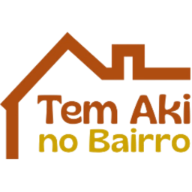
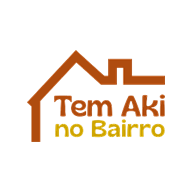
Atualiza identidade visual da marca

Changed region(s): [[0.0, 0.1562, 1.0, 0.8438]]

diff --git a/src/App.tsx b/src/App.tsx
@@ -26,7 +26,7 @@ import { OwnerDashboard } from "./pages/OwnerDashboard";
 import { AuthProvider } from "./contexts/AuthContext";
 import { PrivateRoute } from "./components/PrivateRoute";
 import { Card } from "./components/ui/Card";
-import logo from "./assets/logo.jpg";
+import logo from "./assets/logo-transparent.png";
 import { appMeta } from "./config/appMeta";
 
 function ScrollToTop() {
@@ -149,11 +149,7 @@ function UserAppLayout() {
       <header className="fixed inset-x-0 top-0 z-[60] border-b border-border-default bg-surface-card/95 shadow-sm backdrop-blur">
         <div className="container mx-auto flex h-16 items-center justify-between px-space-4">
           <Link to="/app" className="flex min-w-0 items-center gap-space-3">
-            <img src={logo} alt="Tem Aki no Bairro" className="h-10 w-10 rounded-radius-lg border border-border-subtle object-cover bg-surface-card" />
-            <div className="leading-tight">
-              <div className="text-text-base font-bold text-text-primary">{appMeta.name}</div>
-              <div className="text-text-xs text-text-muted">Busca local no Nova Terra</div>
-            </div>
+            <img src={logo} alt="Tem Aki no Bairro" className="h-10 w-auto max-w-[180px] object-contain" />
           </Link>
           <button
             type="button"
@@ -180,10 +176,10 @@ function UserAppLayout() {
           <aside className="absolute right-0 top-0 h-full w-[88%] max-w-sm overflow-y-auto border-l border-border-subtle bg-surface-card p-space-5 shadow-2xl">
             <div className="flex items-center justify-between gap-space-3">
               <div className="flex items-center gap-space-3">
-                <img src={logo} alt="Tem Aki no Bairro" className="h-11 w-11 rounded-radius-lg border border-border-subtle object-cover bg-surface-card" />
+                <img src={logo} alt="Tem Aki no Bairro" className="h-11 w-auto max-w-[170px] object-contain" />
                 <div>
-                  <div className="text-text-lg font-bold text-text-primary">{appMeta.name}</div>
-                  <div className="text-text-xs text-text-muted">Menu</div>
+                  <div className="text-text-sm font-bold text-text-primary">Menu do aplicativo</div>
+                  <div className="text-text-xs text-text-muted">Nova Terra</div>
                 </div>
               </div>
               <button

diff --git a/src/layouts/AdminLayout.tsx b/src/layouts/AdminLayout.tsx
@@ -3,6 +3,7 @@ import { LayoutDashboard, Store, Grid, MessageSquare, LogOut, Menu, X, ListTree 
 import { useState } from "react";
 import { Button } from "../components/ui/Button";
 import { useAuth } from "../contexts/AuthContext";
+import logo from "../assets/logo-transparent.png";
 
 export function AdminLayout() {
     const { pathname } = useLocation();
@@ -28,8 +29,11 @@ export function AdminLayout() {
 
             <aside className={`fixed md:static inset-y-0 left-0 z-50 w-64 bg-surface-card border-r border-border-subtle shadow-card transform ${isMobileMenuOpen ? "translate-x-0" : "-translate-x-full"} md:translate-x-0 transition-transform duration-300 ease-in-out`}>
                 <div className="h-full flex flex-col">
-                    <div className="p-space-6 border-b border-border-subtle flex justify-between items-center">
-                        <Link to="/" className="text-text-lg font-bold text-action-primary">Tem Aki Admin</Link>
+                    <div className="p-space-6 border-b border-border-subtle flex justify-between items-center gap-space-3">
+                        <Link to="/" className="min-w-0">
+                            <img src={logo} alt="Tem Aki no Bairro" className="h-10 w-auto max-w-[170px] object-contain" />
+                            <div className="mt-space-2 text-text-xs font-semibold uppercase tracking-wide text-action-primary">Painel Admin</div>
+                        </Link>
                         <button onClick={toggleMenu} className="md:hidden text-text-muted">
                             <X className="h-6 w-6" />
                         </button>
@@ -80,7 +84,7 @@ export function AdminLayout() {
                     <button onClick={toggleMenu} className="text-text-muted">
                         <Menu className="h-6 w-6" />
                     </button>
-                    <span className="font-semibold text-text-primary">Painel Administrativo</span>
+                    <img src={logo} alt="Tem Aki no Bairro" className="h-8 w-auto max-w-[140px] object-contain" />
                 </header>
 
                 <div className="flex-1 overflow-auto p-4 md:p-8">

diff --git a/src/components/layout/Header.tsx b/src/components/layout/Header.tsx
@@ -3,7 +3,7 @@ import { Menu, X, User as UserIcon, LogOut, Heart, LayoutDashboard } from "lucid
 import { Link, useNavigate } from "react-router-dom";
 import { useState, useRef, useEffect } from "react";
 import { useAuth } from "../../contexts/AuthContext";
-import logo from "../../assets/logo.jpg";
+import logo from "../../assets/logo-transparent.png";
 
 type NavigatorStandalone = Navigator & { standalone?: boolean };
 
@@ -60,10 +60,7 @@ export function Header() {
         <header className="fixed top-0 left-0 w-full z-50 bg-surface-section border-b border-border-default shadow-sm text-sm">
             <div className="container mx-auto px-4 h-16 flex items-center justify-between">
                 <Link to="/" className="flex items-center gap-3 h-full text-action-primary hover:opacity-90 transition-opacity">
-                    <img src={logo} alt="Tem Aki no Bairro" className="h-full w-auto object-contain" />
-                    <span className="text-text-xl font-bold text-text-primary">
-                        Tem Aki <span className="text-action-primary">no Bairro</span>
-                    </span>
+                    <img src={logo} alt="Tem Aki no Bairro" className="h-10 md:h-11 w-auto max-w-[210px] object-contain" />
                 </Link>
 
                 <nav className="hidden md:flex items-center gap-space-6">

diff --git a/src/pages/Download.tsx b/src/pages/Download.tsx
@@ -21,7 +21,7 @@ import {
 } from "lucide-react";
 import { Button } from "../components/ui/Button";
 import { Card } from "../components/ui/Card";
-import logo from "../assets/logo.jpg";
+import logo from "../assets/logo-transparent.png";
 import heroBg from "../assets/hero-bg.jpg";
 
 type BeforeInstallPromptEvent = Event & {
@@ -152,8 +152,7 @@ export function Download() {
                     <div className="grid grid-cols-1 lg:grid-cols-2 gap-space-8 items-center">
                         <div className="space-y-space-6">
                             <div className="flex items-center gap-space-3">
-                                <img src={logo} alt="Tem Aki no Bairro" className="h-12 w-12 rounded-radius-lg border border-border-subtle object-cover bg-surface-card" />
-                                <div className="text-text-sm font-semibold text-text-secondary">Tem Aki no Bairro</div>
+                                <img src={logo} alt="Tem Aki no Bairro" className="h-14 w-auto max-w-[220px] object-contain" />
                             </div>
                             <div>
                                 <h1 className="text-text-4xl md:text-text-5xl font-bold text-text-primary leading-tight">
@@ -409,4 +408,3 @@ export function Download() {
         </div>
     );
 }
-

diff --git a/src/pages/Login.tsx b/src/pages/Login.tsx
@@ -5,6 +5,7 @@ import { Input } from "../components/ui/Input";
 import { Card } from "../components/ui/Card";
 import api from "../services/api";
 import { useAuth } from "../contexts/AuthContext";
+import logo from "../assets/logo-transparent.png";
 
 export function Login() {
     const navigate = useNavigate();
@@ -57,7 +58,10 @@ export function Login() {
     return (
         <div className="container mx-auto px-space-4 py-space-12">
             <div className="max-w-md mx-auto">
-                <h1 className="text-text-3xl font-bold text-text-primary mb-space-6 text-center">Área Restrita</h1>
+                <div className="mb-space-6 flex flex-col items-center gap-space-3 text-center">
+                    <img src={logo} alt="Tem Aki no Bairro" className="h-20 w-auto max-w-[280px] object-contain" />
+                    <h1 className="text-text-3xl font-bold text-text-primary">Área Restrita</h1>
+                </div>
                 <Card className="border-border-subtle">
                     <form onSubmit={handleSubmit} className="space-y-space-4">
                         {error && (

diff --git a/src/pages/AppHome.tsx b/src/pages/AppHome.tsx
@@ -7,6 +7,7 @@ import { Button } from "../components/ui/Button";
 import { Card } from "../components/ui/Card";
 import { Input } from "../components/ui/Input";
 import heroBg from "../assets/hero-bg.jpg";
+import logo from "../assets/logo-transparent.png";
 
 const categoryColorClasses = [
   "from-action-primary/15 to-action-primary/5",
@@ -132,6 +133,7 @@ export function AppHome() {
 
         <div className="relative container mx-auto flex min-h-[78vh] flex-col justify-end px-space-4 pb-space-8 pt-24">
           <div className="max-w-xl">
+            <img src={logo} alt="Tem Aki no Bairro" className="mb-space-5 h-20 w-auto max-w-[320px] object-contain" />
             <div className="mb-space-4 inline-flex items-center rounded-radius-full border border-white/15 bg-white/10 px-space-3 py-2 text-text-xs font-semibold uppercase tracking-widest text-white/85 backdrop-blur">
               Nova Terra
             </div>

diff --git a/index.html b/index.html
@@ -18,10 +18,12 @@
   <meta property="og:title" content="Tem Aki no Bairro" />
   <meta property="og:description" content="Encontre comércios, serviços e estabelecimentos próximos a você." />
   <meta property="og:url" content="https://temakinobairro.com.br/" />
+  <meta property="og:image" content="https://temakinobairro.com.br/og-image.png" />
 
   <meta name="twitter:card" content="summary" />
   <meta name="twitter:title" content="Tem Aki no Bairro" />
   <meta name="twitter:description" content="Encontre comércios, serviços e estabelecimentos próximos a você." />
+  <meta name="twitter:image" content="https://temakinobairro.com.br/og-image.png" />
 
   <title>Tem Aki no Bairro</title>
 </head>

diff --git a/vite.config.ts b/vite.config.ts
@@ -16,6 +16,8 @@ export default defineConfig({
         'android-chrome-512x512.png',
         'android-chrome-192x192-maskable.png',
         'android-chrome-512x512-maskable.png',
+        'logo-transparent.png',
+        'og-image.png',
       ],
       manifest: {
         id: '/',
